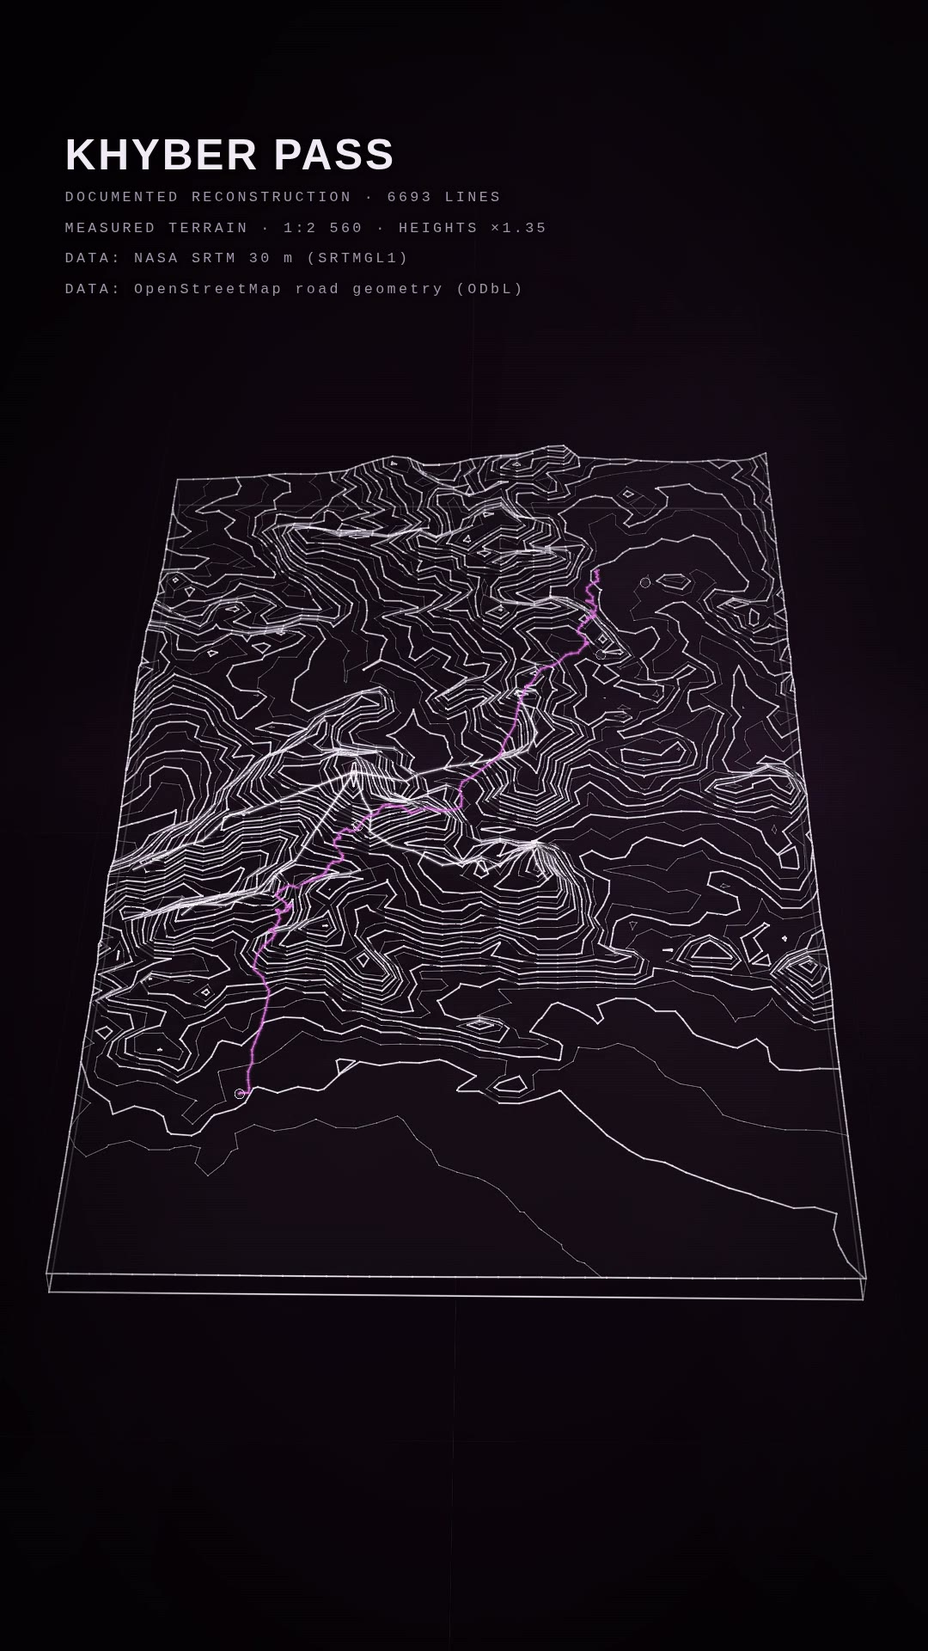
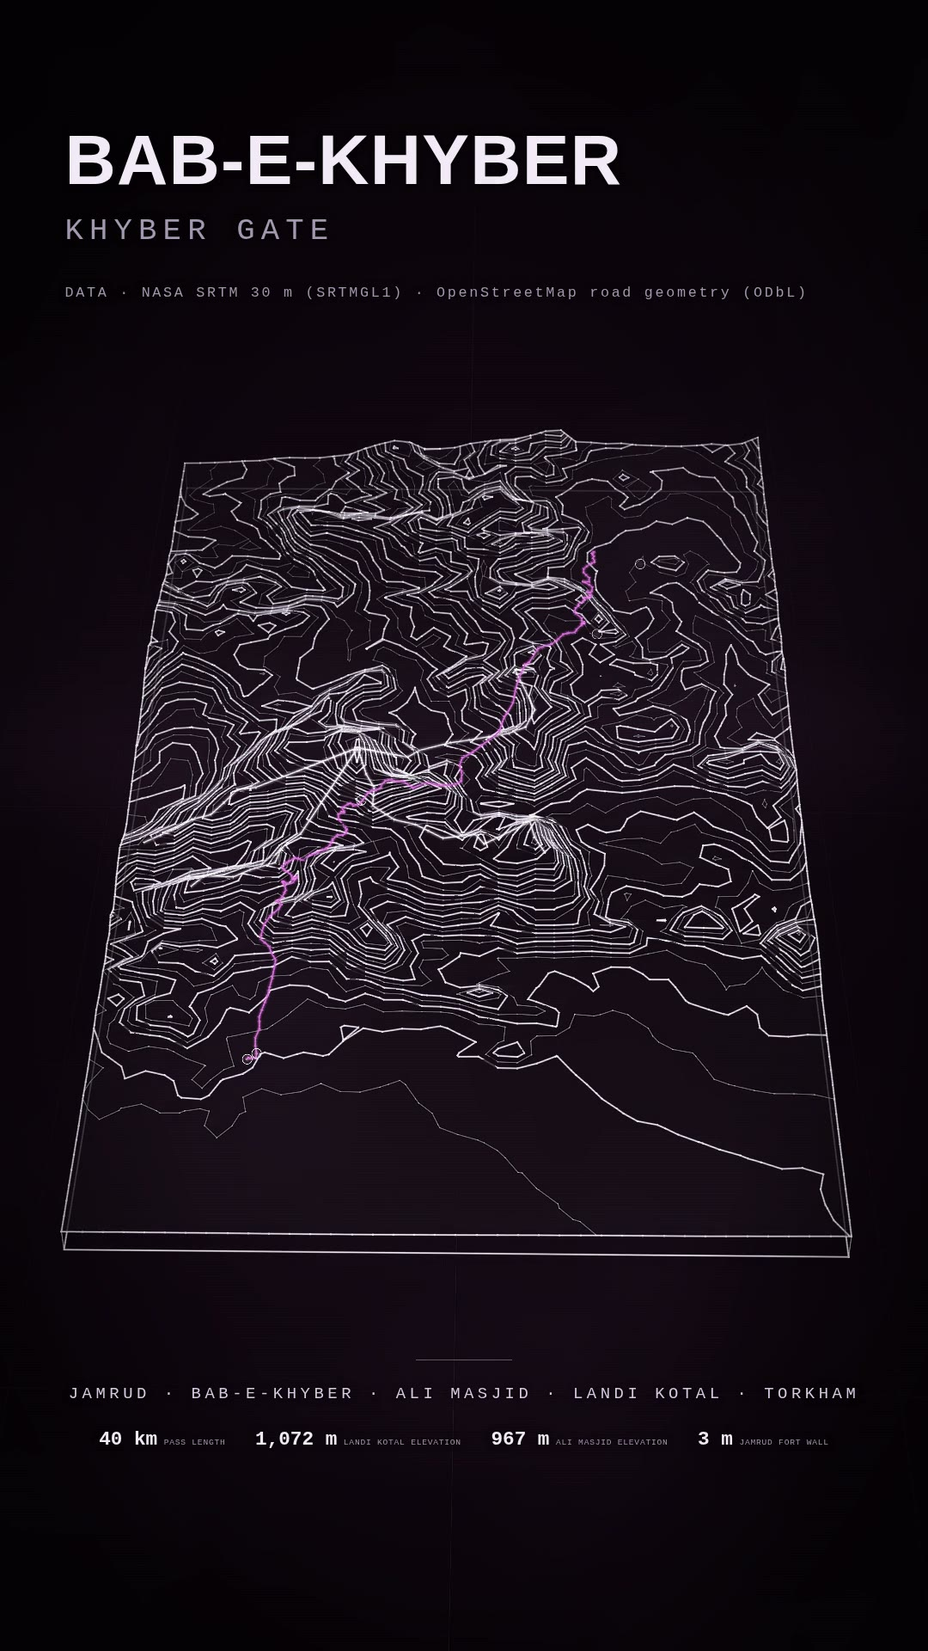
feat(film): a title slate with data, labels and facts
- video --title sets a person's title prominently and keeps the picture's
  datasets under it as a reference; the scene's identity labels and the
  facts named by --facts sit below the construct, filling the empty part
  of a 9:16 frame.
- The slate replaces the stock caption and works in any film page; a
  title or facts also turn film mode on, so the overlay is embedded.
- Khyber Pass: the Bab-e-Khyber gate marked at the entrance of the pass,
  portrait framing tightened, the example regenerated with the title
  "Bab-e-Khyber (Khyber Gate)" and four facts. Renders live in renders/
  (ignored), the example keeps its scene, cue and poster.

diff --git a/construct_hologram/viewer/film.js b/construct_hologram/viewer/film.js
@@ -33,7 +33,11 @@
     steady: q.get("camera") === "steady",
     reactivity: q.has("reactivity") ? clamp(parseFloat(q.get("reactivity")) || 0, 0, 2) : 1,
   };
-  if (!FILM.assembly && !FILM.audio && !FILM.steady) return;  // no film option: the stock viewer, untouched
+  const SLATE = q.get("slate") === "1" ? {
+    title: q.get("title") || null,
+    facts: (q.get("facts") || "").split(",").map((x) => x.trim()).filter(Boolean),
+  } : null;
+  if (!FILM.assembly && !FILM.audio && !FILM.steady && !SLATE) return;  // no film option: the stock viewer, untouched
   const P = HV.Hologram.prototype;
   const SCAN = 1, SHIMMER = 4;  // the viewer's event codes
   const SMOOTH_S = 2.0, ACCENT_S = 0.2, PACE = 4;
@@ -200,6 +204,63 @@
     try { return ownCamera.call(this, t, base); } finally { cam.tour = own; }
   };
 
+  // ------------------------------------------------------------------ the slate
+  // A film can carry a title the person gave, the picture's data sources as a reference, and the
+  // scene's own labels and facts. It replaces the page's caption when it is on.
+  function node(tag, cls, text) {
+    const e = document.createElement(tag);
+    if (cls) e.className = cls;
+    if (text !== undefined) e.textContent = text;
+    return e;
+  }
+  function factName(key) {
+    const bits = String(key).split(".");
+    const head = bits[0].replace(/_/g, " ").replace(/\b\w/g, (c) => c.toUpperCase());
+    const tail = bits.slice(1).join(" ").replace(/_/g, " ");
+    return head + (tail ? " " + tail : "");
+  }
+  function factValue(f) {
+    const v = typeof f.value === "number" && !Number.isInteger(f.value) ? f.value.toFixed(1) : f.value;
+    const n = typeof f.value === "number" ? Number(v).toLocaleString("en-US") : v;
+    return f.unit ? n + " " + f.unit : String(n);
+  }
+  function buildSlate() {
+    const holo = window.HOLO && window.HOLO.hologram;
+    if (!SLATE || !holo) return;
+    const geo = holo.geo, wrap = node("div", "filmslate");
+    const text = (SLATE.title || geo.title || "").trim();
+    const split = text.match(/^(.*?)\s*\((.+)\)\s*$/);
+    const data = (geo.provenance.sources || []).filter((s) => s.kind === "dataset").map((s) => s.title);
+    const all = geo.provenance.facts || [];
+    const picked = SLATE.facts.length
+      ? SLATE.facts.map((k) => all.find((f) => f.key === k)).filter(Boolean)
+      : all.filter((f) => f.certainty === "verified" && f.unit && !String(f.key).startsWith("terrain.")).slice(0, 4);
+    const labels = (geo.annotations || []).filter((a) => {
+      const part = (geo.parts || []).find((p) => p.id === a.part);
+      return !part || part.role === "identity";
+    }).map((a) => a.text);
+    const head = node("div", "head");
+    head.appendChild(node("div", "title", split ? split[1] : text));
+    if (split) head.appendChild(node("div", "subtitle", split[2]));
+    if (data.length) head.appendChild(node("div", "data", "DATA \u00b7 " + data.join("  \u00b7  ")));
+    wrap.appendChild(head);
+    const info = node("div", "info");
+    info.appendChild(node("div", "rule"));
+    if (labels.length) info.appendChild(node("div", "labels", labels.join("  \u00b7  ").toUpperCase()));
+    if (picked.length) {
+      const row = node("div", "facts");
+      for (const f of picked) {
+        const chip = node("span", "fact");
+        chip.appendChild(node("b", null, factValue(f)));
+        chip.appendChild(node("span", "k", factName(f.key)));
+        row.appendChild(chip);
+      }
+      info.appendChild(row);
+    }
+    wrap.appendChild(info);
+    document.getElementById("overlay").appendChild(wrap);
+  }
+
   // ------------------------------------------------------------------ after the viewer has started
   function start() {
     const holo = window.HOLO && window.HOLO.hologram;
@@ -214,6 +275,7 @@
     };
     sizeClass();
     window.addEventListener("resize", sizeClass);
+    buildSlate();
     holo.schedule = holo.buildSchedule();  // the idle life begins after the film's assembly
     if (FILM.audio) {
       window.HOLO_AUDIO_READY = fetch(FILM.audio).then((res) => res.json())

diff --git a/skills/construct/scripts/construct_hologram/viewer/film.js b/skills/construct/scripts/construct_hologram/viewer/film.js
@@ -33,7 +33,11 @@
     steady: q.get("camera") === "steady",
     reactivity: q.has("reactivity") ? clamp(parseFloat(q.get("reactivity")) || 0, 0, 2) : 1,
   };
-  if (!FILM.assembly && !FILM.audio && !FILM.steady) return;  // no film option: the stock viewer, untouched
+  const SLATE = q.get("slate") === "1" ? {
+    title: q.get("title") || null,
+    facts: (q.get("facts") || "").split(",").map((x) => x.trim()).filter(Boolean),
+  } : null;
+  if (!FILM.assembly && !FILM.audio && !FILM.steady && !SLATE) return;  // no film option: the stock viewer, untouched
   const P = HV.Hologram.prototype;
   const SCAN = 1, SHIMMER = 4;  // the viewer's event codes
   const SMOOTH_S = 2.0, ACCENT_S = 0.2, PACE = 4;
@@ -200,6 +204,63 @@
     try { return ownCamera.call(this, t, base); } finally { cam.tour = own; }
   };
 
+  // ------------------------------------------------------------------ the slate
+  // A film can carry a title the person gave, the picture's data sources as a reference, and the
+  // scene's own labels and facts. It replaces the page's caption when it is on.
+  function node(tag, cls, text) {
+    const e = document.createElement(tag);
+    if (cls) e.className = cls;
+    if (text !== undefined) e.textContent = text;
+    return e;
+  }
+  function factName(key) {
+    const bits = String(key).split(".");
+    const head = bits[0].replace(/_/g, " ").replace(/\b\w/g, (c) => c.toUpperCase());
+    const tail = bits.slice(1).join(" ").replace(/_/g, " ");
+    return head + (tail ? " " + tail : "");
+  }
+  function factValue(f) {
+    const v = typeof f.value === "number" && !Number.isInteger(f.value) ? f.value.toFixed(1) : f.value;
+    const n = typeof f.value === "number" ? Number(v).toLocaleString("en-US") : v;
+    return f.unit ? n + " " + f.unit : String(n);
+  }
+  function buildSlate() {
+    const holo = window.HOLO && window.HOLO.hologram;
+    if (!SLATE || !holo) return;
+    const geo = holo.geo, wrap = node("div", "filmslate");
+    const text = (SLATE.title || geo.title || "").trim();
+    const split = text.match(/^(.*?)\s*\((.+)\)\s*$/);
+    const data = (geo.provenance.sources || []).filter((s) => s.kind === "dataset").map((s) => s.title);
+    const all = geo.provenance.facts || [];
+    const picked = SLATE.facts.length
+      ? SLATE.facts.map((k) => all.find((f) => f.key === k)).filter(Boolean)
+      : all.filter((f) => f.certainty === "verified" && f.unit && !String(f.key).startsWith("terrain.")).slice(0, 4);
+    const labels = (geo.annotations || []).filter((a) => {
+      const part = (geo.parts || []).find((p) => p.id === a.part);
+      return !part || part.role === "identity";
+    }).map((a) => a.text);
+    const head = node("div", "head");
+    head.appendChild(node("div", "title", split ? split[1] : text));
+    if (split) head.appendChild(node("div", "subtitle", split[2]));
+    if (data.length) head.appendChild(node("div", "data", "DATA \u00b7 " + data.join("  \u00b7  ")));
+    wrap.appendChild(head);
+    const info = node("div", "info");
+    info.appendChild(node("div", "rule"));
+    if (labels.length) info.appendChild(node("div", "labels", labels.join("  \u00b7  ").toUpperCase()));
+    if (picked.length) {
+      const row = node("div", "facts");
+      for (const f of picked) {
+        const chip = node("span", "fact");
+        chip.appendChild(node("b", null, factValue(f)));
+        chip.appendChild(node("span", "k", factName(f.key)));
+        row.appendChild(chip);
+      }
+      info.appendChild(row);
+    }
+    wrap.appendChild(info);
+    document.getElementById("overlay").appendChild(wrap);
+  }
+
   // ------------------------------------------------------------------ after the viewer has started
   function start() {
     const holo = window.HOLO && window.HOLO.hologram;
@@ -214,6 +275,7 @@
     };
     sizeClass();
     window.addEventListener("resize", sizeClass);
+    buildSlate();
     holo.schedule = holo.buildSchedule();  // the idle life begins after the film's assembly
     if (FILM.audio) {
       window.HOLO_AUDIO_READY = fetch(FILM.audio).then((res) => res.json())

diff --git a/construct_hologram/viewer/template.html b/construct_hologram/viewer/template.html
@@ -49,6 +49,30 @@
   body.portrait .legend { font-size: 1.8vw; right: 6%; bottom: 9%; }
   body.portrait .help { display: none; }
   body.portrait .rounds { right: 6%; top: 4vw; max-width: 60%; font-size: 1.7vw; }
+  /* a film slate: the person's title, the data as a reference, and the scene's labels and facts */
+  .filmslate { position: absolute; inset: 0; pointer-events: none; text-shadow: 0 0 8px #000, 0 0 2px #000; }
+  .filmslate .head { position: absolute; left: 7%; right: 7%; top: 7%; }
+  .filmslate .title { font: 700 4.4vw/1.04 ui-sans-serif, -apple-system, "Segoe UI", Inter, Helvetica, Arial, sans-serif;
+    letter-spacing: .015em; text-transform: uppercase; }
+  .filmslate .subtitle { margin-top: 1vw; font-size: 1.9vw; letter-spacing: .2em; text-transform: uppercase; color: var(--dim); }
+  .filmslate .data { margin-top: 2vw; font-size: 1vw; letter-spacing: .16em; color: var(--dim); }
+  .filmslate .info { position: absolute; left: 7%; right: 7%; bottom: 8%; text-align: center; }
+  .filmslate .rule { width: 12%; height: 1px; margin: 0 auto 1.4vw; background: rgba(240, 220, 250, .38); }
+  .filmslate .labels { font-size: 1.05vw; letter-spacing: .24em; color: #d9c9e6; }
+  .filmslate .facts { margin-top: 1.1vw; display: flex; flex-wrap: wrap; justify-content: center; gap: .6vw 2.6vw; align-items: baseline; }
+  .filmslate .fact { white-space: nowrap; }
+  .filmslate .fact b { font-size: 1.25vw; font-weight: 600; color: var(--ink); }
+  .filmslate .fact .k { margin-left: .55vw; font-size: .82em; letter-spacing: .08em; text-transform: uppercase; color: var(--dim); }
+  body.portrait .filmslate .head { top: 7.5%; }
+  body.portrait .filmslate .title { font-size: 7.6vw; line-height: 1.02; }
+  body.portrait .filmslate .subtitle { margin-top: 1.6vw; font-size: 3.3vw; }
+  body.portrait .filmslate .data { margin-top: 3.2vw; font-size: 1.55vw; line-height: 1.5; }
+  body.portrait .filmslate .info { bottom: 12%; }
+  body.portrait .filmslate .rule { margin-bottom: 2.2vw; }
+  body.portrait .filmslate .labels { font-size: 1.75vw; line-height: 1.7; }
+  body.portrait .filmslate .facts { margin-top: 2vw; gap: 1.2vw 3.2vw; }
+  body.portrait .filmslate .fact b { font-size: 2.1vw; }
+  body.portrait .filmslate .fact .k { font-size: .8em; margin-left: .7vw; }
   .labels .label.left { transform: translate(calc(-100% - 4px), -50%); }
   .labels .label.inferred { border-style: dashed; color: #e9d8c2; }
   .labels .label.traced { color: #d2defc; }

diff --git a/skills/construct/scripts/construct_hologram/viewer/template.html b/skills/construct/scripts/construct_hologram/viewer/template.html
@@ -49,6 +49,30 @@
   body.portrait .legend { font-size: 1.8vw; right: 6%; bottom: 9%; }
   body.portrait .help { display: none; }
   body.portrait .rounds { right: 6%; top: 4vw; max-width: 60%; font-size: 1.7vw; }
+  /* a film slate: the person's title, the data as a reference, and the scene's labels and facts */
+  .filmslate { position: absolute; inset: 0; pointer-events: none; text-shadow: 0 0 8px #000, 0 0 2px #000; }
+  .filmslate .head { position: absolute; left: 7%; right: 7%; top: 7%; }
+  .filmslate .title { font: 700 4.4vw/1.04 ui-sans-serif, -apple-system, "Segoe UI", Inter, Helvetica, Arial, sans-serif;
+    letter-spacing: .015em; text-transform: uppercase; }
+  .filmslate .subtitle { margin-top: 1vw; font-size: 1.9vw; letter-spacing: .2em; text-transform: uppercase; color: var(--dim); }
+  .filmslate .data { margin-top: 2vw; font-size: 1vw; letter-spacing: .16em; color: var(--dim); }
+  .filmslate .info { position: absolute; left: 7%; right: 7%; bottom: 8%; text-align: center; }
+  .filmslate .rule { width: 12%; height: 1px; margin: 0 auto 1.4vw; background: rgba(240, 220, 250, .38); }
+  .filmslate .labels { font-size: 1.05vw; letter-spacing: .24em; color: #d9c9e6; }
+  .filmslate .facts { margin-top: 1.1vw; display: flex; flex-wrap: wrap; justify-content: center; gap: .6vw 2.6vw; align-items: baseline; }
+  .filmslate .fact { white-space: nowrap; }
+  .filmslate .fact b { font-size: 1.25vw; font-weight: 600; color: var(--ink); }
+  .filmslate .fact .k { margin-left: .55vw; font-size: .82em; letter-spacing: .08em; text-transform: uppercase; color: var(--dim); }
+  body.portrait .filmslate .head { top: 7.5%; }
+  body.portrait .filmslate .title { font-size: 7.6vw; line-height: 1.02; }
+  body.portrait .filmslate .subtitle { margin-top: 1.6vw; font-size: 3.3vw; }
+  body.portrait .filmslate .data { margin-top: 3.2vw; font-size: 1.55vw; line-height: 1.5; }
+  body.portrait .filmslate .info { bottom: 12%; }
+  body.portrait .filmslate .rule { margin-bottom: 2.2vw; }
+  body.portrait .filmslate .labels { font-size: 1.75vw; line-height: 1.7; }
+  body.portrait .filmslate .facts { margin-top: 2vw; gap: 1.2vw 3.2vw; }
+  body.portrait .filmslate .fact b { font-size: 2.1vw; }
+  body.portrait .filmslate .fact .k { font-size: .8em; margin-left: .7vw; }
   .labels .label.left { transform: translate(calc(-100% - 4px), -50%); }
   .labels .label.inferred { border-style: dashed; color: #e9d8c2; }
   .labels .label.traced { color: #d2defc; }

diff --git a/construct_hologram/studio.py b/construct_hologram/studio.py
@@ -460,6 +460,10 @@ def add_commands(sub):
                         "view, drifting and breathing; still: the view held, no motion (steady with --format tiktok)")
     p.add_argument("--reactivity", type=float, help="film mode, with --audio: how strongly the music shows, 0..2 "
                                                     "(default 1; 0 is an even build with no light or accents)")
+    p.add_argument("--title", help="set this title prominently in the film, with the picture's data sources as a "
+                                   "reference and the scene's labels and facts beneath the construct")
+    p.add_argument("--facts", help="with --title: the fact keys to print below the construct, comma separated "
+                                   "(default: the scene's four verified facts with a unit)")
     p = sub.add_parser("export", help="a 3D model: glTF (.glb) for Blender, game engines and the web, or OBJ "
                                       "(docs/EXPORT.md)")
     p.add_argument("scene")
@@ -1151,7 +1155,8 @@ def run(args):
             camera = args.camera or ("steady" if tall else "tour")
             seconds = args.seconds if args.seconds is not None else (args.assembly + 3.0 if args.assembly else 12.0)
             # film mode is embedded only when a film option asks for it; otherwise the stock page
-            film = bool(args.audio or args.assembly or camera == "steady" or args.reactivity is not None)
+            film = bool(args.audio or args.assembly or camera == "steady" or args.reactivity is not None
+                        or args.title or args.facts)
             with tempfile.TemporaryDirectory(prefix="hologram-video-") as tmp:
                 build(args.scene, tmp, args.asset_root, palette=args.palette, identity=args.identity, film=film)
                 w, h = (int(x) for x in size.lower().split("x"))
@@ -1165,6 +1170,13 @@ def run(args):
                     extra["camera"] = camera
                 if args.reactivity is not None:
                     extra["reactivity"] = "%g" % args.reactivity
+                if args.title or args.facts:
+                    extra["slate"] = "1"
+                    extra["caption"] = "0"  # the slate replaces the stock caption
+                    if args.title:
+                        extra["title"] = args.title
+                    if args.facts:
+                        extra["facts"] = args.facts
                 render.frames(page_in(tmp), str(Path(tmp, "frames")), seconds, fps,
                               args.start, w, h, view=args.view, extra=extra)
                 out.parent.mkdir(parents=True, exist_ok=True)

diff --git a/skills/construct/scripts/construct_hologram/studio.py b/skills/construct/scripts/construct_hologram/studio.py
@@ -460,6 +460,10 @@ def add_commands(sub):
                         "view, drifting and breathing; still: the view held, no motion (steady with --format tiktok)")
     p.add_argument("--reactivity", type=float, help="film mode, with --audio: how strongly the music shows, 0..2 "
                                                     "(default 1; 0 is an even build with no light or accents)")
+    p.add_argument("--title", help="set this title prominently in the film, with the picture's data sources as a "
+                                   "reference and the scene's labels and facts beneath the construct")
+    p.add_argument("--facts", help="with --title: the fact keys to print below the construct, comma separated "
+                                   "(default: the scene's four verified facts with a unit)")
     p = sub.add_parser("export", help="a 3D model: glTF (.glb) for Blender, game engines and the web, or OBJ "
                                       "(docs/EXPORT.md)")
     p.add_argument("scene")
@@ -1151,7 +1155,8 @@ def run(args):
             camera = args.camera or ("steady" if tall else "tour")
             seconds = args.seconds if args.seconds is not None else (args.assembly + 3.0 if args.assembly else 12.0)
             # film mode is embedded only when a film option asks for it; otherwise the stock page
-            film = bool(args.audio or args.assembly or camera == "steady" or args.reactivity is not None)
+            film = bool(args.audio or args.assembly or camera == "steady" or args.reactivity is not None
+                        or args.title or args.facts)
             with tempfile.TemporaryDirectory(prefix="hologram-video-") as tmp:
                 build(args.scene, tmp, args.asset_root, palette=args.palette, identity=args.identity, film=film)
                 w, h = (int(x) for x in size.lower().split("x"))
@@ -1165,6 +1170,13 @@ def run(args):
                     extra["camera"] = camera
                 if args.reactivity is not None:
                     extra["reactivity"] = "%g" % args.reactivity
+                if args.title or args.facts:
+                    extra["slate"] = "1"
+                    extra["caption"] = "0"  # the slate replaces the stock caption
+                    if args.title:
+                        extra["title"] = args.title
+                    if args.facts:
+                        extra["facts"] = args.facts
                 render.frames(page_in(tmp), str(Path(tmp, "frames")), seconds, fps,
                               args.start, w, h, view=args.view, extra=extra)
                 out.parent.mkdir(parents=True, exist_ok=True)

diff --git a/construct_hologram/test_film.py b/construct_hologram/test_film.py
@@ -193,6 +193,14 @@ class Cli(unittest.TestCase):
         seen = self.page("--audio", "AUDIO", "--reactivity", "1.5")
         self.assertEqual(seen, {"film": True, "extra": {"audio": "audio.json", "reactivity": "1.5"}})
 
+    def test_a_title_turns_on_the_film_slate(self):
+        seen = self.page("--title", "Bab-e-Khyber (Khyber Gate)")
+        self.assertTrue(seen["film"])
+        self.assertEqual(seen["extra"], {"slate": "1", "caption": "0", "title": "Bab-e-Khyber (Khyber Gate)"})
+        seen = self.page("--facts", "pass.length,road.length")
+        self.assertTrue(seen["film"])
+        self.assertEqual(seen["extra"], {"slate": "1", "caption": "0", "facts": "pass.length,road.length"})
+
     def test_the_tiktok_preset_is_a_tall_steady_film(self):
         seen = self.video_page("--format", "tiktok")
         self.assertEqual((seen["size"], seen["fps"]), ([1080, 1920], 30))

diff --git a/examples/films/khyber-pass/README.md b/examples/films/khyber-pass/README.md
@@ -1,7 +1,8 @@
 # Khyber Pass — a 9:16 film
 
 The Khyber Pass assembling across a 32-second cue, framed for a tall screen (1080 × 1920).
-Jamrud, Ali Masjid, Landi Kotal and Torkham are marked along the road that carries the pass.
+Jamrud, Bab-e-Khyber, Ali Masjid, Landi Kotal and Torkham are marked along the road that carries
+the pass.
 
 | file | what it is |
 | --- | --- |
@@ -16,15 +17,18 @@ python3 construct_hologram/cli.py audio examples/films/khyber-pass/khyber-pass.w
     --out examples/films/khyber-pass/khyber-audio.json --fps 30
 
 python3 construct_hologram/cli.py video examples/films/khyber-pass/scene.json \
-    --out khyber-pass-9x16.mp4 --format tiktok --assembly 30 --seconds 32 \
+    --out renders/khyber-pass-9x16.mp4 --format tiktok --assembly 30 --seconds 32 \
     --audio examples/films/khyber-pass/khyber-audio.json \
-    --sound examples/films/khyber-pass/khyber-pass.wav --labels
+    --sound examples/films/khyber-pass/khyber-pass.wav \
+    --title "Bab-e-Khyber (Khyber Gate)" \
+    --facts pass.length,landi_kotal.elevation,ali_masjid.elevation,jamrud_fort.wall
 ```
 
 `--format tiktok` is 1080 × 1920 at 30 fps with the steady camera. The scene's
-`presentation.framing.portrait` block (`yaw` 0, `pitch` 40, `fit` 0.95) looks up the pass from
+`presentation.framing.portrait` block (`yaw` 0, `pitch` 40, `fit` 0.98) looks up the pass from
 Jamrud to Torkham; the terrain is turned a quarter turn in the scene so its length runs up the
-frame instead of across it.
+frame instead of across it. `--title` sets the person's title with the data as a reference, and
+puts the place labels and the chosen facts below the construct.
 
 ## What is evidence, what is designed
 

diff --git a/docs/FILM.md b/docs/FILM.md
@@ -175,6 +175,25 @@ The tall page also sets its own type: the caption and labels are sized from the 
 (`vw`), so they read on a phone and in a 1080 x 1920 film. Nothing is burned in beyond the
 construct's own caption; titles and captions for the platform are yours.
 
+### The title slate
+
+A film can carry the title the person gave. `--title` sets it prominently and keeps the picture's
+datasets under it as a reference; the scene's own place labels and a few of its facts sit below
+the construct, so the empty part of a tall frame carries something to read:
+
+```sh
+python3 construct_hologram/cli.py video scene.json --out film-9x16.mp4 --format tiktok \
+    --title "Bab-e-Khyber (Khyber Gate)" \
+    --facts pass.length,landi_kotal.elevation,ali_masjid.elevation \
+    --assembly 30 --audio track-audio.json --sound track.wav
+```
+
+The title is split at a trailing parenthesis, so `Bab-e-Khyber (Khyber Gate)` sets
+**BAB-E-KHYBER** with **KHYBER GATE** beneath it. `--facts` names fact keys from the scene; without
+it the slate takes the first four verified facts that have a unit. The labels are the scene's
+identity annotations (its marked places), in scene order. The slate replaces the page's caption,
+which is hidden while it is on; without `--title` or `--facts` a film keeps the stock caption.
+
 ## Preview it in a browser
 
 You can watch the same thing live. Build the construct with film mode, put the features file next

diff --git a/CHANGELOG.md b/CHANGELOG.md
@@ -527,6 +527,10 @@ side, printed as worksheets and cited. The story: [release notes](docs/releases/
   wide, so a page built without film mode is untouched. Tall pages set their caption
   and labels from the frame's width and put the caption at the top, so type reads at phone size. The scene and geometry contract keeps its id and keys; the
   new fields are additive.
+- **A film slate**: `video --title "..."` sets a person's title prominently, keeps the picture's
+  datasets under it as a reference, and prints the scene's place labels and chosen facts
+  (`--facts key,key`) below the construct, filling the empty part of a tall frame. The slate
+  replaces the stock caption.
 - **A 9:16 example**: `examples/films/khyber-pass/`, the Khyber Pass from NASA SRTM elevation
   and the OpenStreetMap road, rotated a quarter turn and framed for a tall film.
 
